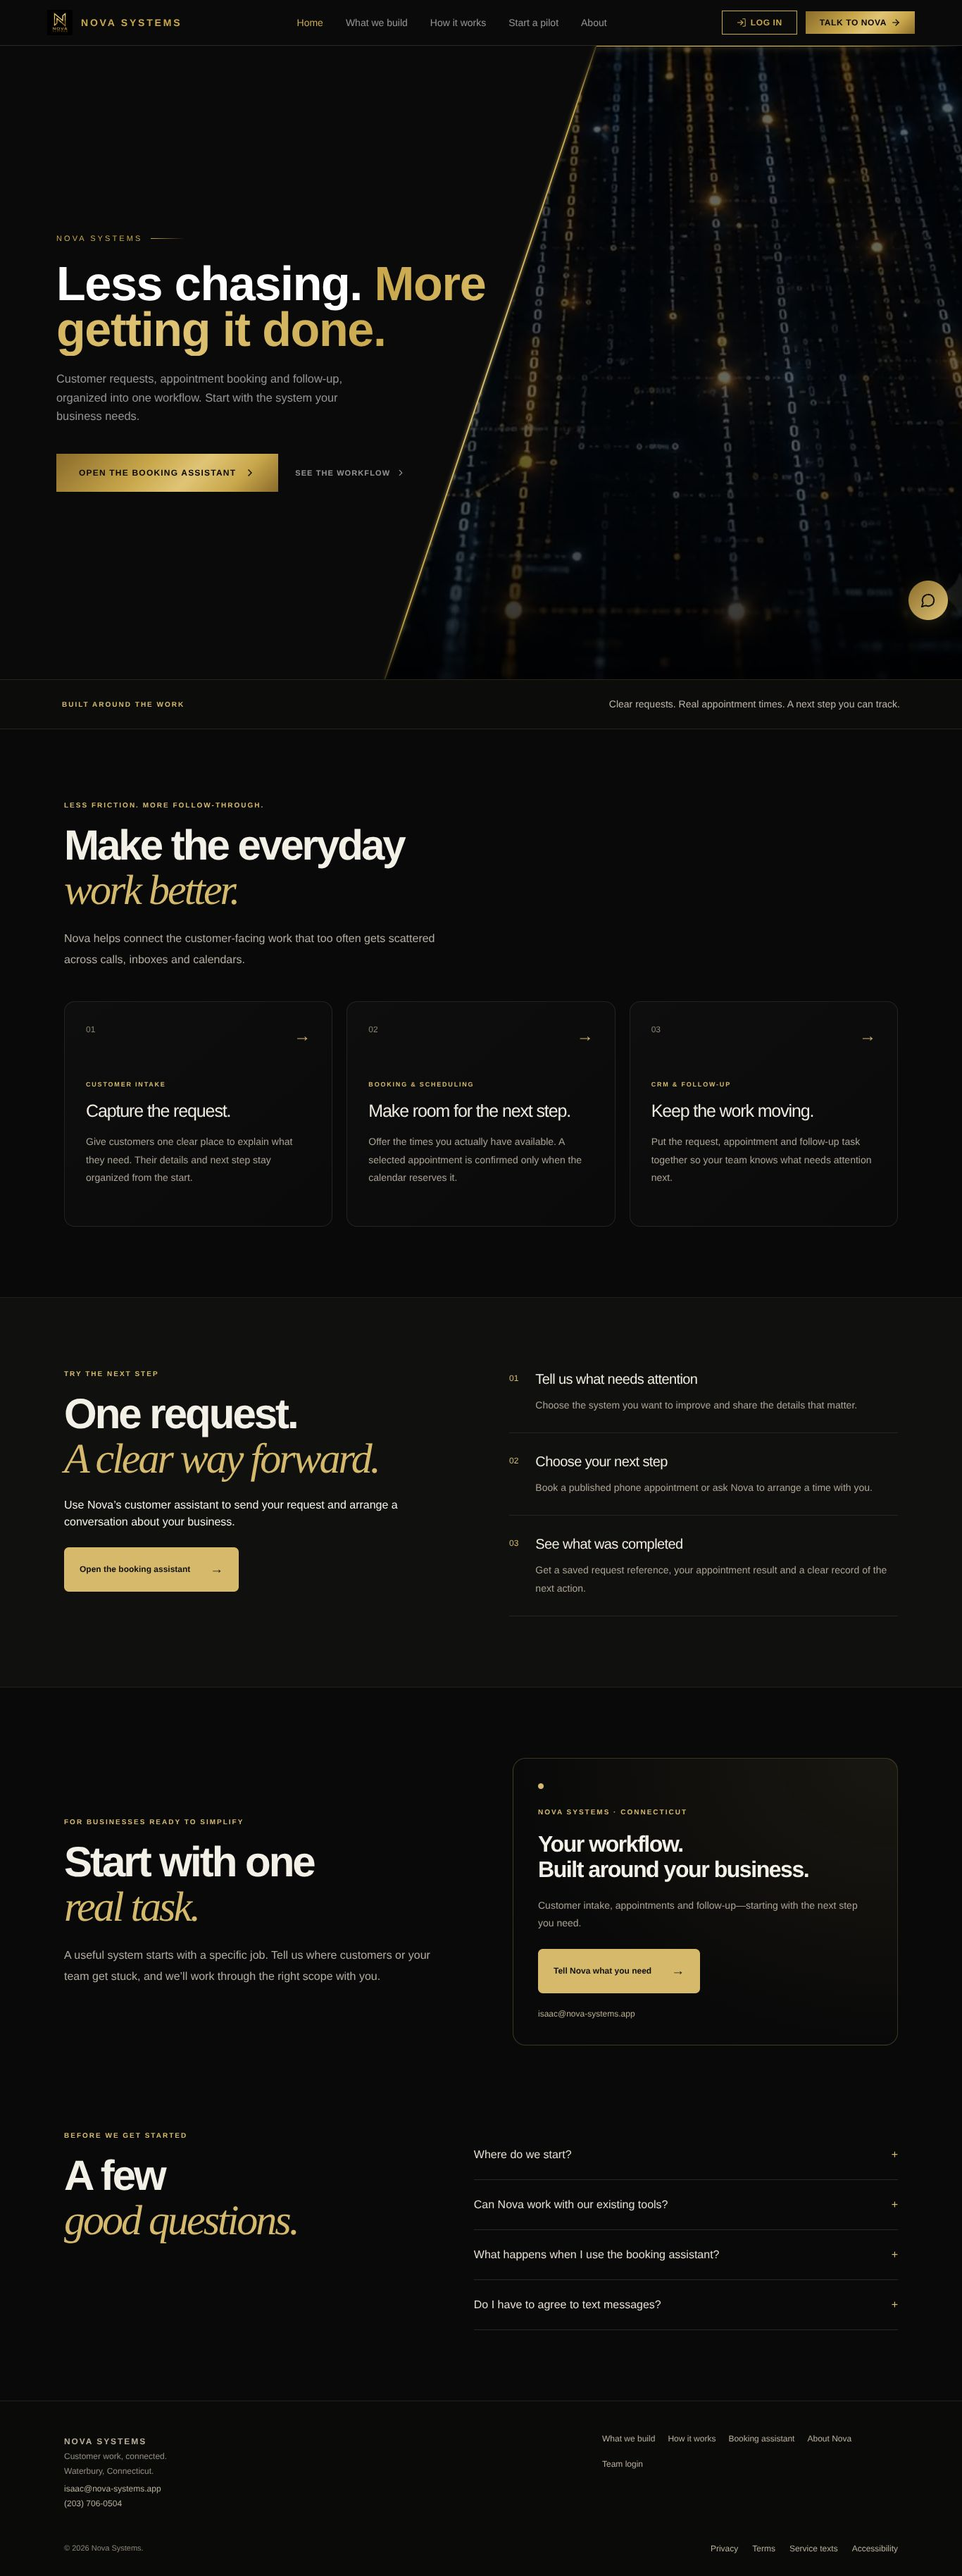
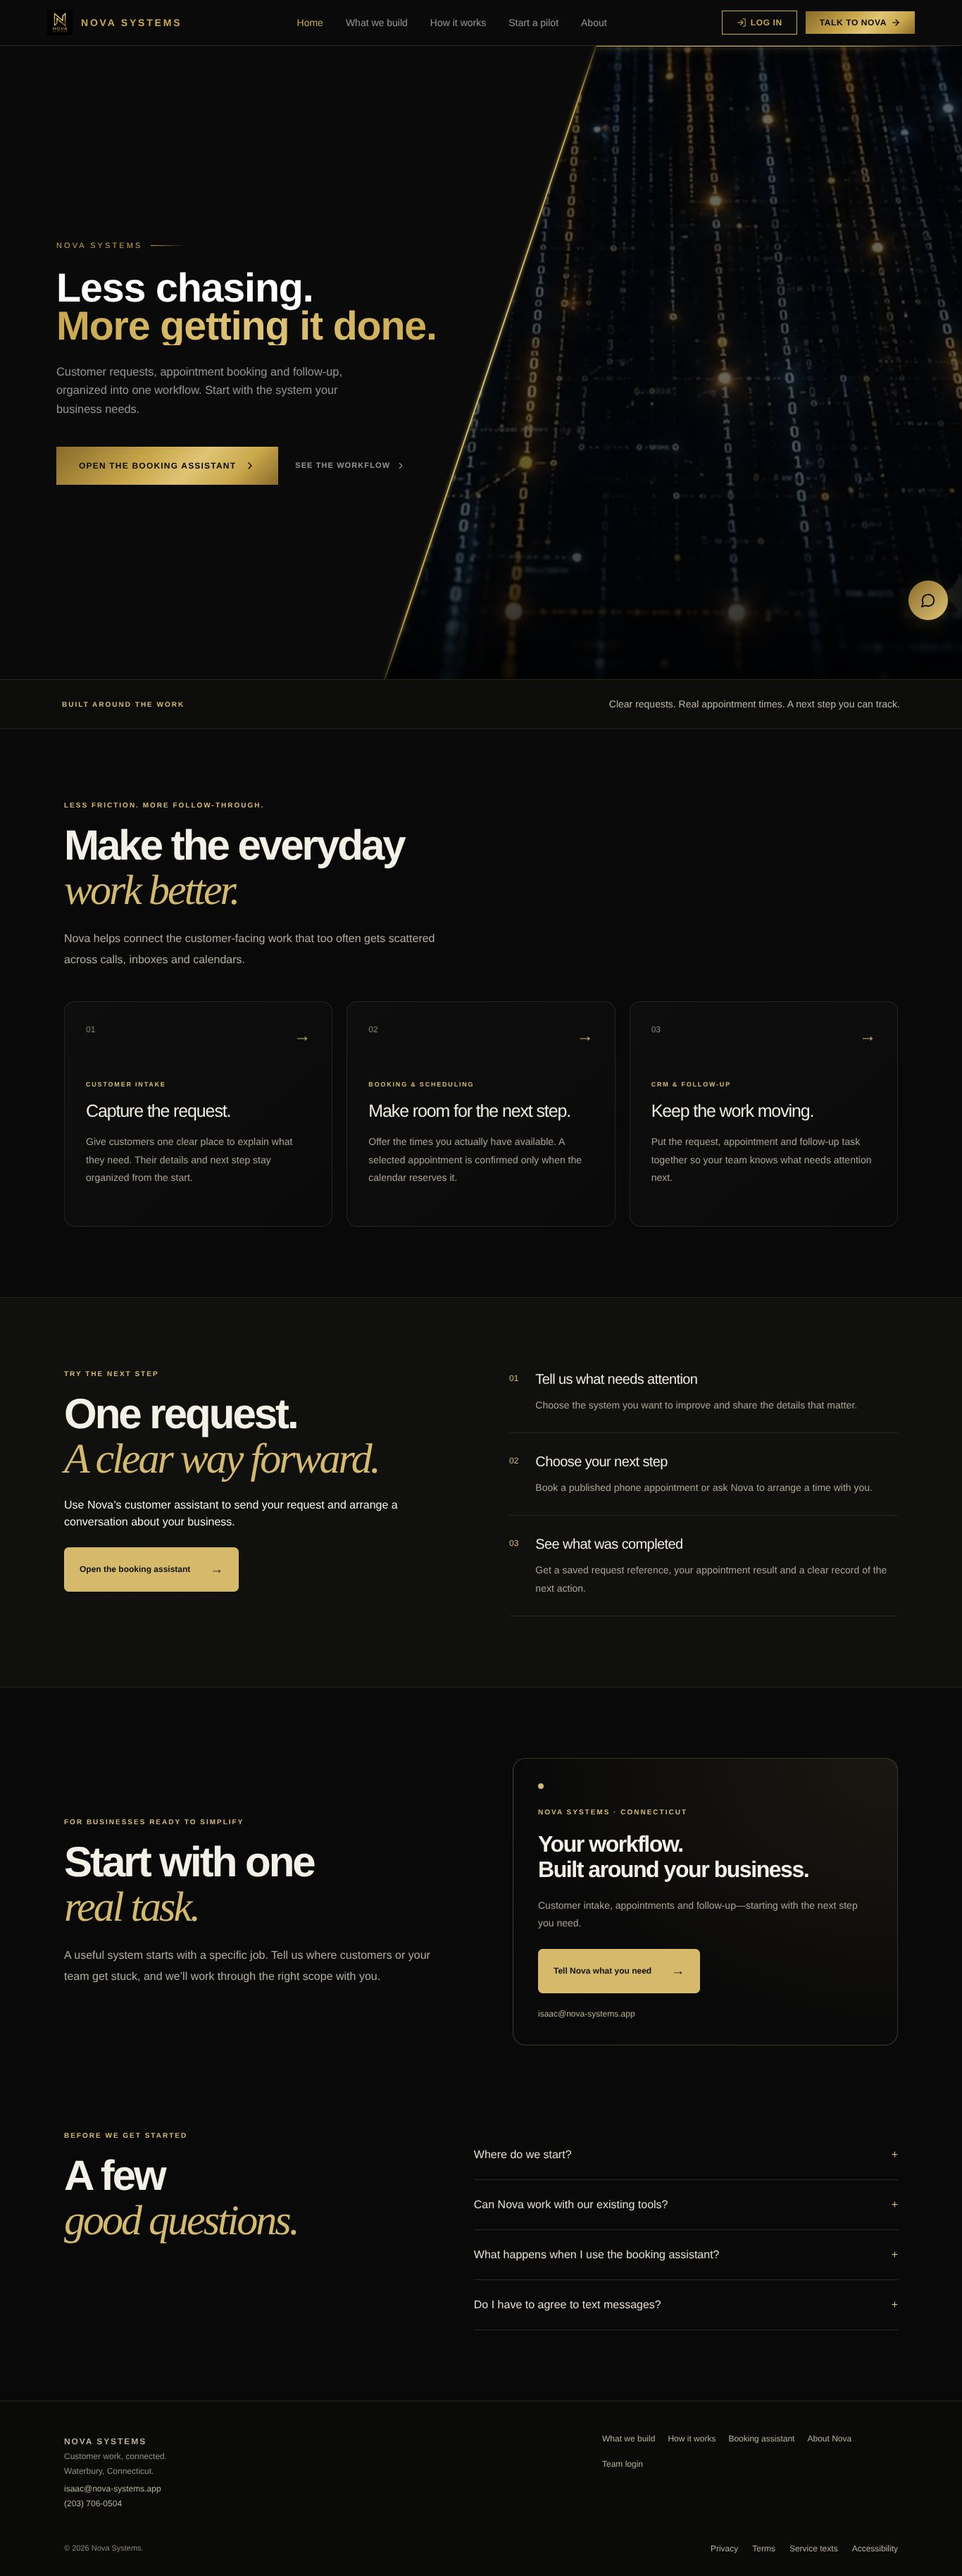
Preserve booking receipts on reload and add owner cancellation
Remove the one-time new-request URL flag after use, cover that path with real-browser acceptance, and allow the verified Nova owner to cancel through the same atomic workflow. Protect worker requests from the legacy status editor. Tighten desktop headline layout and refresh reviewed evidence.

Changed region(s): [[0.0615, 0.0935, 0.4919, 0.1871]]

diff --git a/src/components/LaunchDesk.jsx b/src/components/LaunchDesk.jsx
@@ -54,7 +54,7 @@ export default function LaunchDesk() {
       <div className="launch-card"><h3>Your published calendar</h3>{!slots.length && <p>No appointment times yet. The assistant still collects requests and creates follow-up tasks.</p>}<div className="launch-slot-list">{slots.map(s => <div className="launch-slot" key={s.id}><div>{s.is_test && <span className="launch-tag">TEST</span>}<strong>{formatEasternTime(s.starts_at)}</strong><small>{Math.round((Date.parse(s.ends_at) - Date.parse(s.starts_at)) / 60000)} minutes · {s.status}</small></div>{s.status === 'available' && <button className="launch-text-btn" disabled={busy} onClick={() => mutate({ action: 'withdraw_slot', id: s.id })} type="button">Withdraw</button>}</div>)}</div></div></div>
       <div className="launch-runs-heading"><h3>Worker completion receipts</h3><div><label className="launch-check"><input type="checkbox" checked={showTests} onChange={e => setShowTests(e.target.checked)} />Show test records</label><button type="button" className="launch-text-btn" onClick={load}>Refresh</button></div></div>
       {!runs.length && <p className="launch-empty">No live worker runs yet. Share the customer assistant to receive your first request.</p>}
-      <div className="launch-run-list">{runs.map(r => <article key={r.request_id} className="launch-run"><div className="launch-run-top"><div><span className="launch-eyebrow">{r.is_test ? 'TEST RUN' : 'CUSTOMER REQUEST'}</span><h4>{r.business_name}</h4><p>{r.name} · <a href={'mailto:' + r.email}>{r.email}</a>{r.phone && <> · <a href={'tel:' + r.phone}>{r.phone}</a></>}</p></div><span className={'launch-state ' + (r.state === 'booked' ? 'is-booked' : '')}>{r.state === 'booked' ? 'Appointment booked' : r.state === 'cancelled' ? 'Cancelled' : 'Ready for follow-up'}</span></div>{r.notes && <p className="launch-request-note">{r.notes}</p>}<ul>{r.steps.map((s, i) => <li key={i} className={s.status === 'completed' ? 'is-complete' : ''}>{s.label}</li>)}</ul><p className="launch-small">{r.starts_at && r.state === 'booked' ? formatEasternTime(r.starts_at) + ' · ' : ''}Follow-up task: {r.follow_up_status}. No outbound message was sent by this workflow.</p><details><summary>Saved reference</summary><p className="launch-reference">{r.request_id}</p></details></article>)}</div>
+      <div className="launch-run-list">{runs.map(r => <article key={r.request_id} className="launch-run"><div className="launch-run-top"><div><span className="launch-eyebrow">{r.is_test ? 'TEST RUN' : 'CUSTOMER REQUEST'}</span><h4>{r.business_name}</h4><p>{r.name} · <a href={'mailto:' + r.email}>{r.email}</a>{r.phone && <> · <a href={'tel:' + r.phone}>{r.phone}</a></>}</p></div><span className={'launch-state ' + (r.state === 'booked' ? 'is-booked' : '')}>{r.state === 'booked' ? 'Appointment booked' : r.state === 'cancelled' ? 'Cancelled' : 'Ready for follow-up'}</span></div>{r.notes && <p className="launch-request-note">{r.notes}</p>}<ul>{r.steps.map((s, i) => <li key={i} className={s.status === 'completed' ? 'is-complete' : ''}>{s.label}</li>)}</ul><p className="launch-small">{r.starts_at && r.state === 'booked' ? formatEasternTime(r.starts_at) + ' · ' : ''}Follow-up task: {r.follow_up_status}. No outbound message was sent by this workflow.</p>{r.state !== 'cancelled' && <button className="launch-text-btn" type="button" disabled={busy} onClick={() => mutate({action:'cancel_request',id:r.request_id})}>Cancel request</button>}<details><summary>Saved reference</summary><p className="launch-reference">{r.request_id}</p></details></article>)}</div>
       <p className="launch-small">This worker follows a defined intake and booking workflow. Paid language-model, text-message and phone dispatch are not activated here.</p>
     </>}
   </section>;

diff --git a/public/sms-program/index.html b/public/sms-program/index.html
@@ -1,5 +1,5 @@
 <!doctype html>
-<html lang="en"><head><meta charset="utf-8"><meta name="viewport" content="width=device-width,initial-scale=1"><title>Book your next step | Nova Systems</title><meta name="description" content="Tell Nova what your business needs, choose a published phone appointment, and keep your next step organized. Optional service texts require separate consent."><link rel="stylesheet" href="/sms-program/style.css"><link rel="stylesheet" href="/sms-program/worker.css?v=20261109"><script type="module" src="/sms-program/worker.js?v=20261109"></script></head>
+<html lang="en"><head><meta charset="utf-8"><meta name="viewport" content="width=device-width,initial-scale=1"><title>Book your next step | Nova Systems</title><meta name="description" content="Tell Nova what your business needs, choose a published phone appointment, and keep your next step organized. Optional service texts require separate consent."><link rel="stylesheet" href="/sms-program/style.css"><link rel="stylesheet" href="/sms-program/worker.css?v=20261109"><script type="module" src="/sms-program/worker.js?v=20261109b"></script></head>
 <body class="assistant-body"><header class="assistant-header"><a class="wordmark" href="/" aria-label="Nova Systems home"><img src="/sms-program/nova-mark.png" alt="" width="36" height="36"><span>NOVA SYSTEMS</span></a><a class="back" href="/">Back to Nova →</a></header>
 <main class="assistant-main"><div class="assistant-intro"><p class="eyebrow">Your business. Your next step.</p><h1>Let’s put things<br><em>in motion.</em></h1><p class="intro">Tell us what you need. Choose an available phone appointment, or send your request and let Nova arrange a time.</p><p id="test-banner" class="test-banner" hidden>TEST WORKSPACE · Test appointments only. Use an @example.invalid email and a 555-01xx phone number.</p></div>
 <section class="panel result-panel" id="confirmation" aria-live="polite" hidden><p class="eyebrow" id="result-eyebrow">Your next step is ready</p><h2 id="result-title">Your request is saved.</h2><p id="booking-detail" class="booking-detail"></p><p id="result-detail"></p><ul id="worker-steps" class="worker-steps" aria-label="Completed worker actions"></ul><p id="result-consent" class="note"></p><div class="result-actions"><button id="download-calendar" type="button" hidden>Add to calendar</button><button id="cancel-request" class="secondary-button" type="button">Cancel this request</button><a class="secondary-link" href="/service-request">Start another request</a></div><p class="receipt" id="reference"></p><p id="manage-error" role="alert" class="error" hidden></p><p class="note">Keep this page available to cancel your request. For help, email <a href="mailto:isaac@nova-systems.app">isaac@nova-systems.app</a>. No marketing permission is collected.</p></section>

diff --git a/src/pages/dashboard/IntakeForms.jsx b/src/pages/dashboard/IntakeForms.jsx
@@ -10,7 +10,7 @@ const STATUS_COLORS = {
 }
 
 const MEETING_STATUSES = ['pending', 'confirmed', 'completed', 'no_show', 'rescheduled']
-const MEETING_STATUS_LABELS = { pending: 'Pending', confirmed: 'Confirmed', completed: 'Completed', no_show: 'No Show', rescheduled: 'Rescheduled' }
+const MEETING_STATUS_LABELS = { pending: 'Pending', confirmed: 'Confirmed', completed: 'Completed', no_show: 'No Show', rescheduled: 'Rescheduled', cancelled: 'Cancelled' }
 
 function toCsvValue(v) {
   const s = Array.isArray(v) ? v.join('; ') : String(v ?? '')
@@ -114,10 +114,10 @@ export default function IntakeForms() {
                 <p style={{ color: 'rgba(255,255,255,0.3)', fontSize: 11 }}>{m.meeting_time || 'Service request'}</p>
               </div>
               <p style={{ color: 'rgba(255,255,255,0.45)', fontSize: 11, lineHeight: 1.5 }}>{(m.needs || []).join(', ') || '—'}</p>
-              <select value={m.status} onChange={(e) => updateMeetingStatus(m.id, e.target.value)}
+              {['worker_launch_web','test_worker_launch'].includes(m.referral_source) ? <span style={{color:GOLD,fontSize:11}}>{MEETING_STATUS_LABELS[m.status] || m.status} · Manage in Launch Desk</span> : <select value={m.status} onChange={(e) => updateMeetingStatus(m.id, e.target.value)}
                 style={{ fontSize: 11, fontWeight: 700, padding: '6px 10px', borderRadius: 8, background: '#151515', color: GOLD, border: `1px solid ${GOLD}40`, cursor: 'pointer' }}>
                 {MEETING_STATUSES.map(s => <option key={s} value={s} style={{ background: '#151515' }}>{MEETING_STATUS_LABELS[s]}</option>)}
-              </select>
+              </select>}
             </div>
           ))}
         </div>

diff --git a/api/_launchWorker.js b/api/_launchWorker.js
@@ -82,13 +82,13 @@ export async function handleLaunchAdmin(req, res) {
   if (!caller) return;
   const b = req.body || {};
   const action = req.method === 'GET' ? 'overview' : b.action;
-  if (!['overview', 'add_slot', 'withdraw_slot'].includes(action)) return res.status(400).json({ ok: false, error: 'Unknown calendar action.' });
+  if (!['overview', 'add_slot', 'withdraw_slot', 'cancel_request'].includes(action)) return res.status(400).json({ ok: false, error: 'Unknown calendar action.' });
   try {
     if (action === 'add_slot') {
       const start = Date.parse(b.starts_at), end = Date.parse(b.ends_at);
       if (!Number.isFinite(start) || !Number.isFinite(end) || end <= start || end - start > 14400000) return res.status(422).json({ ok: false, error: ERRORS.invalid_slot });
     }
-    if (action === 'withdraw_slot' && (typeof b.id !== 'string' || !UUID.test(b.id))) return res.status(422).json({ ok: false, error: 'Invalid appointment slot.' });
+    if (['withdraw_slot', 'cancel_request'].includes(action) && (typeof b.id !== 'string' || !UUID.test(b.id))) return res.status(422).json({ ok: false, error: 'Invalid appointment slot.' });
     return answer(res, await launchRpc('nova_launch_owner', {
       p_actor: caller.id, p_action: action,
       p_payload: action === 'add_slot' ? { starts_at: b.starts_at, ends_at: b.ends_at, is_test: b.is_test === true } : { id: b.id },

diff --git a/api/client.js b/api/client.js
@@ -290,15 +290,16 @@ async function handleIntakeRequests(req, res) {
     if (!VALID_STATUSES.includes(status)) return res.status(400).json({ error: 'Invalid status' });
 
     try {
-      const r = await fetch(`${SUPABASE_URL}/rest/v1/intake_requests?id=eq.${encodeURIComponent(id)}`, {
+      const r = await fetch(`${SUPABASE_URL}/rest/v1/intake_requests?id=eq.${encodeURIComponent(id)}&or=(referral_source.is.null,referral_source.not.in.(worker_launch_web,test_worker_launch))`, {
         method: 'PATCH',
         headers: {
           apikey: SUPABASE_KEY, Authorization: `Bearer ${SUPABASE_KEY}`,
-          'Content-Type': 'application/json', Prefer: 'return=minimal',
+          'Content-Type': 'application/json', Prefer: 'return=representation',
         },
         body: JSON.stringify({ status }),
       });
       if (!r.ok) { console.error('[client:intake-requests] Update error:', r.status, await r.text()); return res.status(500).json({ error: 'Failed to update status' }); }
+      if (!(await r.json()).length) return res.status(409).json({ error: 'Worker requests must be managed in Nova Launch Desk.' });
       return res.status(200).json({ ok: true });
     } catch (err) {
       console.error('[client:intake-requests] Error:', err.message);

diff --git a/public/sms-program/worker.js b/public/sms-program/worker.js
@@ -109,7 +109,10 @@ $('download-calendar').addEventListener('click', () => {
   setTimeout(() => URL.revokeObjectURL(url), 1000);
 });
 try {
-  if (new URLSearchParams(location.search).get('new') === '1') sessionStorage.removeItem(sessionKey);
+  if (new URLSearchParams(location.search).get('new') === '1') {
+    sessionStorage.removeItem(sessionKey);
+    const clean = new URL(location.href); clean.searchParams.delete('new'); history.replaceState(null, '', clean);
+  }
   const previous = JSON.parse(sessionStorage.getItem(sessionKey) || 'null');
   if (previous?.reference && previous.management_token && Array.isArray(previous.steps)) showReceipt(previous);
 } catch { /* Private browsing may disable session storage. */ }

diff --git a/src/components/home/HeroSection.jsx b/src/components/home/HeroSection.jsx
@@ -136,10 +136,11 @@ export default function HeroSection() {
 
           <h1
             className="font-black text-white leading-[0.95]"
-            style={{ fontSize: "clamp(2.6rem, 5vw, 4.8rem)", letterSpacing: "-0.02em", maxWidth: 640 }}
+            style={{ fontSize: "clamp(2.6rem, 4.2vw, 4.5rem)", letterSpacing: "-0.02em", maxWidth: 560 }}
           >
             Less chasing.{" "}
             <span style={{
+              display: "block",
               background: GOLD_TEXT_GRADIENT,
               WebkitBackgroundClip: "text",
               WebkitTextFillColor: "transparent",

diff --git a/docs/LAUNCH_2026-11-10.md b/docs/LAUNCH_2026-11-10.md
@@ -2,7 +2,7 @@
 
 ## Customer-facing release
 
-The homepage and booking experience use the approved black, white and gold palette. The existing supplied hero video remains unchanged. Navigation, footer and the assistant button point to the actual request-and-booking worker. The old first-visit marketing popup stays removed.
+The homepage and booking experience use the approved black, white and gold palette. The existing supplied hero video remains unchanged. Navigation, footer and the assistant button point to the actual request-and-booking worker. The old first-visit marketing popup stays removed. A live acceptance check found and corrected a one-time new-request flag that cleared the receipt on reload; that URL path is now covered by the real browser regression.
 
 The public worker at https://nova-systems.app/service-request saves the service request, reuses or creates the existing CRM contact, records the exact optional service-SMS choice, reserves a published Nova phone appointment when selected, and creates a real follow-up task. All database writes commit together or roll back. A completion receipt reports actual actions, including whether an appointment remains pending. Booked customers can download a calendar file and cancel from the same browser session. Calendar files are downloads, not emailed invitations or Google synchronization.
 
@@ -19,7 +19,7 @@ This is a deterministic workflow worker. It does not dispatch a language model, 
 
 No real owner availability has been invented or published. A separate synthetic test appointment is excluded from the live customer calendar. Test workspace: https://nova-systems.app/service-request?test=1&new=1. It requires an `@example.invalid` email and a reserved `555-01xx` phone number; it must never be used as proof of a real customer or real telephone conversation.
 
-Cancellation controls are held in the same browser tab's session storage. A calendar download does not include the cancellation credential. Customers who lose their browser session can contact Nova for changes. Email ownership verification and external calendar conflict detection are not implemented in this release.
+Cancellation controls are held in the same browser tab's session storage. A calendar download does not include the cancellation credential. Customers who lose their browser session can contact Nova for changes; the authenticated owner can cancel the saved request from Launch Desk without receiving the customer’s management secret. Email ownership verification and external calendar conflict detection are not implemented in this release.
 
 ## Verified locally against actual PostgreSQL and PostgREST
 
@@ -28,7 +28,7 @@ Cancellation controls are held in the same browser tab's session storage. A cale
 - Request retry preserves the original result and exact SMS choice; a different cancellation secret is rejected.
 - A failed downstream task insert rolls back the request, CRM contact, consent receipt and appointment together.
 - Test/live separation; no appointment without a phone number; no implicit SMS or marketing permission.
-- Owner-only scheduling and private ledger; unrelated authenticated users and anonymous users cannot read tables or call RPCs.
+- Owner-only scheduling, cancellation and private ledger; unrelated authenticated users and anonymous users cannot read tables or call RPCs.
 - Owner browser session publishes Eastern appointment, verifies UTC database time, inspects receipts and withdraws an available slot.
 - Desktop, iPad and phone layout checks; mobile navigation; public assistant button.
 - Existing service-SMS opt-in regression, exact unchanged disclosure and policy pages, both checked and unchecked real saves.
@@ -47,7 +47,7 @@ The deliberate injected failure logs a generic storage error; acceptance asserti
 
 ## Production database
 
-Applied migration `20261109194341_launch_worker_booking.sql` to the existing production database. Both new tables have RLS enabled, no public/authenticated grants and no customer-readable policies. All four RPCs are SECURITY INVOKER with an empty search path and EXECUTE granted only to the server service role. Owner RPC independently verifies active `nova_super_admin` membership in the active Nova internal organization. Public requests cannot choose an organization or supply an actor.
+Applied migrations `20261109194341_launch_worker_booking.sql` and `20261109195329_launch_worker_owner_cancel.sql` to the existing production database. Both new tables have RLS enabled, no public/authenticated grants and no customer-readable policies. All four RPCs are SECURITY INVOKER with an empty search path and EXECUTE granted only to the server service role. Owner RPC independently verifies active `nova_super_admin` membership in the active Nova internal organization. Public requests cannot choose an organization or supply an actor.
 
 The post-migration security advisor has the same pre-existing warning categories/counts as before this release. The two additional informational RLS-without-policy notices are intentional for private server-only tables. Existing warning categories include mutable function search path, legacy executable security-definer functions and leaked-password protection; they are not introduced by this migration. Guidance: https://supabase.com/docs/guides/database/database-linter
 
